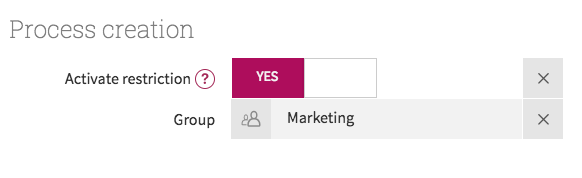
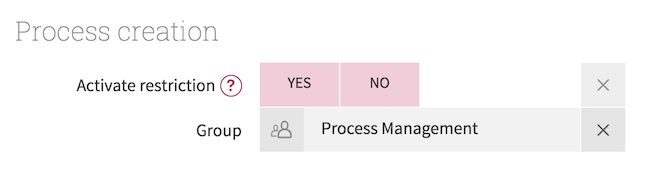
#285 refine process creation restriction doc

Changed region(s): [[0.0928, 0.309, 0.7423, 0.8146], [0.866, 0.309, 0.9897, 0.8146], [0.0, 0.1124, 0.3402, 0.2247]]

diff --git a/docs/settings.rst b/docs/settings.rst
@@ -75,6 +75,7 @@ enter their email address in the text field and click the *Invite* button.
 They will receive an email with a link to the registration page,
 where they can create a Workflow Accelerator user that will become a member of the organization.
 
+.. _groups:
 
 Groups
 ------
@@ -113,17 +114,20 @@ Process creation
 
 .. figure:: /_static/images/settings/process_creation.png
 
-*Process creation* You can activate this option to configure which group of users can create processes.
+You can activate the *Process creation* option to restrict the right to create processes to a specific :ref:`user group <groups>`.
 
 Only users of this group can
 
-* create new processes
-* copy processes
+* create new processes,
+* copy processes,
 * import processes.
 
-Users who are not member of the defined group, but with editing rights for certain processes are still able to modify these processes.
+Users who are not member of the defined group, but have editing rights for specific processes are still able to modify these processes.
 
-.. note:: The transfer of processes between Process Manager and Workflow Accelerator is not affected by this restriction. Any modeller can transfer a process from within Process Manager to Workflow Accelerator.
+.. note::
+
+  The transfer of processes between Process Manager and Workflow Accelerator is not affected by this restriction.
+  Any modeller can transfer a process from Process Manager to Workflow Accelerator.
 
 
 Services
